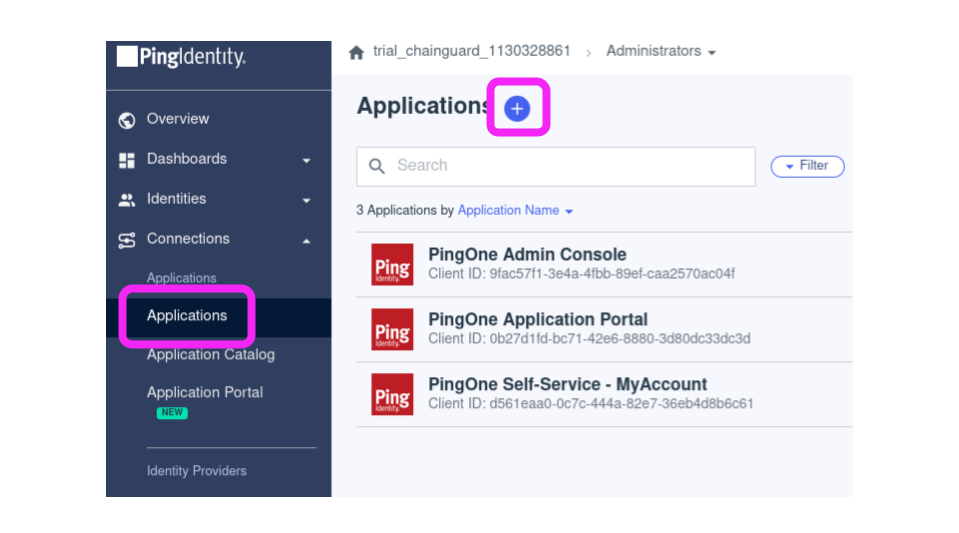
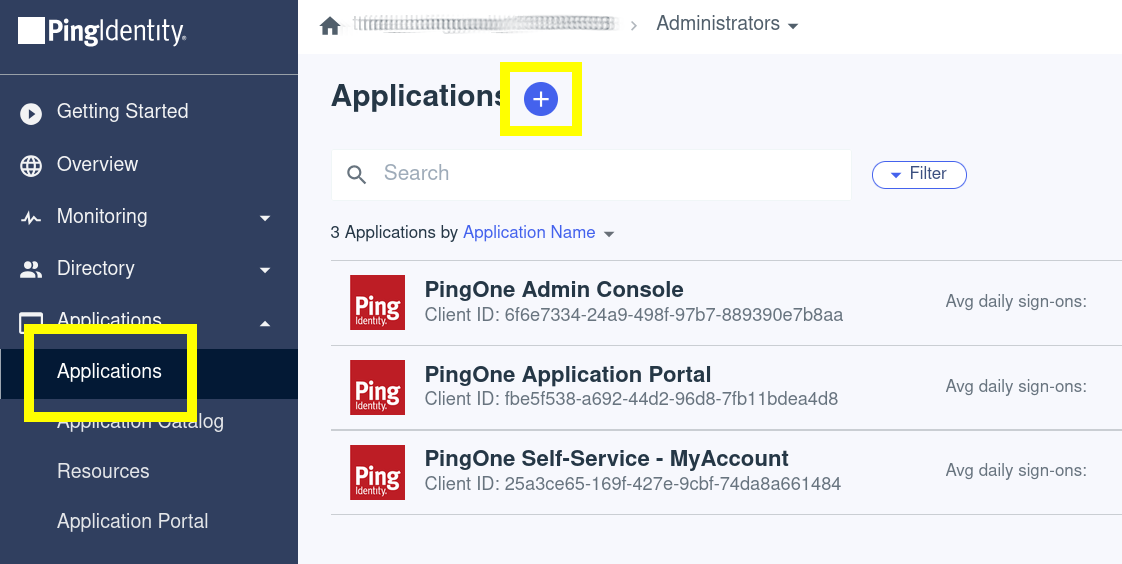
Updating Azure + Ping Custom IDP docs

diff --git a/content/chainguard/administration/custom-idps/ms-entra-id/index.md b/content/chainguard/administration/custom-idps/ms-entra-id/index.md
@@ -1,0 +1,124 @@
+---
+title : "How To Integrate Microsoft Entra ID SSO with Chainguard"
+linktitle: "Microsoft Entra ID"
+alias:
+- /chainguard/administration/custom-idps/azure-ad/
+lead: ""
+description: "Procedural tutorial on how to register a Microsoft Entra ID Application and integrate it with the Chainguard platform."
+type: "article"
+date: 2023-04-17T08:48:45+00:00
+lastmod: 2024-09-25T15:22:20+01:00
+draft: false
+tags: ["CHAINGUARD IMAGES", "PROCEDURAL"]
+images: []
+weight: 020
+---
+
+The Chainguard platform supports Single sign-on (SSO) authentication for users. By default, users can log in with GitHub, GitLab and Google, but SSO support allows users to bring their own identity provider for authentication.
+
+This guide outlines how to create a Microsoft Entra ID (formerly Azure Active Directory) application and integrate it with Chainguard. After completing this guide, you'll be able to log in to Chainguard using Entra ID and will no longer be limited to the default SSO options.
+
+
+## Prerequisites
+
+To complete this guide, you will need the following.
+
+* `chainctl` installed on your system. Follow our guide on [How To Install `chainctl`](/chainguard/administration/how-to-install-chainctl/) if you don't already have this installed.
+* An Azure account you can use to set up an Microsoft Entra ID application.
+
+
+## Create a Microsoft Entra ID Application
+
+To integrate Microsoft Entra ID with the Chainguard platform, log in to [Azure](https://azure.microsoft.com). In the left-hand navigation menu, select **Microsoft Entra ID**.
+
+![Screenshot of Azure's left-hand navigation menu, with the "Microsoft Entra ID" option highglighted in a yellow box.](meid-0.png)
+
+From the Default Directory **Overview** page, click the **➕ Add** button and select **App Registration** from the dropdown menu.
+
+![Screenshot of the Overview in the Azure console. The "Add" dropdown menu has been opened and the "App Registration" option is highlighted in a yellow box.](meid-1.png)
+
+In the **Register an application** screen, configure the application as follows.
+
+* **Name**: Set the username to "Chainguard" (or similar) to ensure users recognize this application is for authentication to the Chainguard platform.
+* **Supported account types**: Select the **Single tenant** option so that only your organization can use this application to authenticate to Chainguard.
+* **Redirect URI**: Set the platform to **Web** and the redirect URI to `https://issuer.enforce.dev/oauth/callback`.
+
+![Screenshot of the Register an application screen with the following settings selected: the Name is set to "chainguard"; Supported account types is set to the "Accounts in this organizational directory only (default Directory only - Single tenant)" option; and the Redirect URI is set to "Web" with "https://issuer.enforce.dev/oauth/callback" set as the URI.](meid-2.png)
+
+Save your configuration by clicking the **Register** button.
+
+Next, you can optionally set additional branding for the application by selecting **Branding and properties** from the **Manage** dropdown menu.
+
+Here you can set additional metadata for the application, including a Chainguard logo icon here to help your users visually identify this integration. If you'd like, you can use the icon from the [Chainguard Console](https://console.chainguard.dev/logo512.png). The console homepage is [console.chainguard.dev](https://console.chainguard.dev), and our terms of service and private statements can be found at [chainguard.dev/terms-of-service](https://www.chainguard.dev/terms-of-service) and [chainguard.dev/privacy-notice](https://www.chainguard.dev/privacy-notice), respectively.
+
+![Screenshot of the Branding & properties screen with the following settings: Name is set to "Chainguard"; Logo shows the sample Linky logo uploaded; Home page URL is set to "https://console.chainguard.dev"; Terms of service URL is set to "https://www.chainguard.dev/terms-of-service"; and the Privacy statement URL is set to "https://www.chainguard.dev/privacy-notice".](meid-3.png)
+
+Finally, navigate to the **Certificates & secrets** tab in the **Manage** dropdown to create a client secret to authenticate the Chainguard platform to Microsoft Entra ID. Select **New client secret** to add a client secret. In the resulting modal window, add a description and set an expiration date.
+
+![Screenshot showing the Certificates & secrets landing page with the Add a client secret screen opened. The "Certificates & secrets" tab is highlighted in yellow, as is the "New client secret" button.](meid-4.png)
+
+Finally, take note of the client secret “Value” that is created. You'll need this to configure the Chainguard platform to use this Microsoft Entra ID application.
+
+![Screenshot showing the "Client secrets" tab, with the Value highlighted in yellow.](meid-5.png)
+
+
+## Configuring Chainguard to use Microsoft Entra ID
+
+Now that your Microsoft Entra ID application is ready, you can create the custom identity provider.
+
+First, log in to Chainguard with `chainctl`, using an OIDC provider like Google, GitHub, or GitLab to bootstrap your account.
+
+```sh
+chainctl auth login
+```
+
+Note that this bootstrap account can be used as a [backup account](/chainguard/administration/custom-idps/custom-idps/#backup-accounts) (that is, a backup account you can use to log in if you ever lose access to your primary account). However, if you prefer to remove this role-binding after configuring the custom IDP, you may also do so.
+
+To configure Chainguard, make a note of the following details from your Microsoft Entra ID application:
+
+* **Application (client) Id**: This can be found on the **Overview** tab of the Chainguard application.
+* **Client Secret**: You noted this down when you set up the client secret in the previous step.
+* **Directory (tenant) Id**: This can also be found on the **Overview** tab of the Chainguard application.
+
+![Screenshot of a portion of the Overview page showing the "Essentials" information. The Application (client) ID and the Directory (tenant) ID are both highlighted in yellow boxes, though their values have been blurred.](meid-6.png)
+
+You will also need the UIDP for the Chainguard organization under which you want to install the identity provider.  Your selection won’t affect how your users authenticate but will have implications on who has permission to modify the SSO configuration.
+
+You can retrieve a list of all the Chainguard organizations you belong to — along with their UIDPs — with the following command.
+
+```shell
+chainctl iam organizations ls -o table
+```
+```output
+                         	ID                         	|  	  NAME    |	DESCRIPTION
+--------------------------------------------------------+-------------+---------------------
+  59156e77fb23e1e5ebcb1bd9c5edae471dd85c43              | sample_org  |
+  . . .                                                 | . . .       |
+```
+
+Note down the `ID` value for your chosen organization.
+
+With this information in hand, create a new identity provider with the following commands.
+
+```sh
+export NAME=entra-id
+export CLIENT_ID=<your application/client id here>
+export CLIENT_SECRET=<your client secret here>
+export ORG=<your organization UIDP here>
+export TENANT_ID=<your directory/tenant id here>
+export ISSUER="https://login.microsoftonline.com/${TENANT_ID}/v2.0"
+chainctl iam identity-provider create \
+  --configuration-type=OIDC \
+  --oidc-client-id=${CLIENT_ID} \
+  --oidc-client-secret=${CLIENT_SECRET} \
+  --oidc-issuer=${ISSUER} \
+  --oidc-additional-scopes=email \
+  --oidc-additional-scopes=profile \
+  --parent=${ORG} \
+  --default-role=viewer \
+  --name=${NAME}
+```
+
+Note the `--default-role` option. This defines the default role granted to users registering with this identity provider. This example specifies the `viewer` role, but depending on your needs you might choose `editor` or `owner`. If you don't include this option, you'll be prompted to specify the role interactively. For more information, refer to the [IAM and Security section](/chainguard/administration/custom-idps/custom-idps/#iam-and-security) of our Introduction to Custom Identity Providers in Chainguard tutorial.
+
+You can refer to our [Generic Integration Guide](/chainguard/administration/custom-idps/custom-idps/#generic-integration-guide) in our Introduction to Custom Identity Providers doc for more information about the `chainctl iam identity-provider create` command and its required options.

diff --git a/content/chainguard/administration/custom-idps/ping-id/index.md b/content/chainguard/administration/custom-idps/ping-id/index.md
@@ -5,7 +5,7 @@ lead: ""
 description: "Procedural tutorial on how to create a Ping Identity Application"
 type: "article"
 date: 2023-04-17T08:48:45+00:00
-lastmod: 2024-06-26T15:22:20+01:00
+lastmod: 2024-09-25T15:22:20+01:00
 draft: false
 tags: ["Chainguard Images", "Procedural"]
 images: []
@@ -27,29 +27,29 @@ To complete this guide, you will need the following.
 
 ## Create a Ping Identity Application
 
-To integrate the Ping identity provider with the Chainguard platform, [sign on to Ping Identity](https://www.pingidentity.com/en.html) and navigate to the Dashboard. Click on the **Connections** tab in the left hand sidebar menu, and then click on **Applications** in the resulting dropdown menu. From the Applications landing page, click the plus sign (**➕**) to set up a new application.
+To integrate the Ping identity provider with the Chainguard platform, [sign on to Ping Identity](https://www.pingidentity.com/en.html) and navigate to the Dashboard. Click on the **Applications** tab in the left-hand sidebar menu, and then click on **Applications** in the resulting dropdown menu. From the Applications landing page, click the plus sign (**➕**) to set up a new application.
 
-![Screenshot of the Ping Identity Dashboard, showing the applications landing page. The Applications tab in the left hand sidebar and the "add application" plus sign icon are circled in magenta.](ping-1.png)
+![Screenshot of the Ping Identity Dashboard, showing the applications landing page. The Applications tab in the left hand sidebar and the "add application" plus sign icon are highlighted in yellow.](ping-1.png)
 
 Configure the application as follows:
 
-* **Application Name**: Set a name and option description (such as "Chainguard") to ensure users recognize this application is for authentication to the Chainguard platform.
+* **Application Name**: Set a descriptive name (such as "Chainguard") and optional description to ensure users recognize this application is for authentication to the Chainguard platform.
 * **Icon**: You can optionally add a Chainguard logo icon here to help your users visually identify this integration. If you'd like, you can use the icon from the [Chainguard Console](https://console.chainguard.dev/logo512.png).
 * **Application Type**: Select **OIDC Web App**.
 
-![Screenshot showing the Add Application modal window with the following settings in place: Application Name is set to "Chainguard"; Description reads "Build it right, Build it safe, Build it fast, https://console.chainguard.dev"; the example Linky icon has been uploaded to the Icon field; and the Application Type is set to "OIDC Web App."](ping-2-add-app.png)
+![Screenshot showing the Add Application modal window with the following settings in place: Application Name is set to "Chainguard"; Description reads "Safe Source for Open Source, https://console.chainguard.dev"; the example Linky icon has been uploaded to the Icon field; and the Application Type is set to "OIDC Web App."](ping-2.png)
 
 After setting these details, click the **Save** button.
 
 Next, configure scopes for the application. In the **Overview** tab, click the **Resource Access** scope button.
 
-![Screenshot of the Overview tab, with the Resource Access scope button highlighted in a magenta circle.](ping-3.png)
+![Screenshot of the Overview tab, with the Resource Access scope button highlighted in a yellow box.](ping-3.png)
 
 Add **email** and **profile** scopes, then save.
 
 ![Screenshot of the Edit Resources modal window, showing the email and profile scopes selected.](ping-4.png)
 
-Next, configure the OIDC application. Navigate to the **Configuration** tab and click the "edit" icon.
+Next, configure the OIDC application. Navigate to the **Configuration** tab and click the pencil-shaped "edit" icon.
 
 To configure the application, add the following settings.
 
@@ -60,13 +60,13 @@ To configure the application, add the following settings.
 
 * **Redirect URIs**: Set the Redirect URI to [`https://issuer.enforce.dev/oauth/callback`](https://issuer.enforce.dev/oauth/callback).
 
-![Screenshot of the Edit Configuration modal window with the following settings: Resource type is set to "Code"; Grant type is set to "Authorization Code" (with PKCE enforcement set to "Optional"); Redirect URIs has one option set (https://issuer.enforce.dev/oauth/callback).](ping-7-edit-conf.png)
+![Screenshot of the Edit Configuration modal window with the following settings: Resource type is set to "Code"; Grant type is set to "Authorization Code" (with PKCE enforcement set to "Optional"); Redirect URIs has one option set (https://issuer.enforce.dev/oauth/callback).](ping-5.png)
 
 Click the **Save** button to save your configuration.
 
-Finally, enable the Chainguard application by toggling the knob in the top right corner.
+Finally, enable the Chainguard application by toggling the button in the top right corner.
 
-![Screenshot of the Overview tab, with the toggle button turned on. Additionally, the toggle button is highlighted with a magenta circle.](ping-8-2.png)
+![Screenshot of the Overview tab, with the toggle button turned on. The toggle button is highlighted with a yellow box.](ping-6.png)
 
 This completes configuration of the Ping application. You're now ready to configure the Chainguard platform to use it.
 
@@ -126,6 +126,5 @@ chainctl iam identity-provider create \
 ```
 
 Note the `--default-role` option. This defines the default role granted to users registering with this identity provider. This example specifies the `viewer` role, but depending on your needs you might choose `editor` or `owner`. If you don't include this option, you'll be prompted to specify the role interactively. For more information, refer to the [IAM and Security section](/chainguard/administration/custom-idps/custom-idps/#iam-and-security) of our Introduction to Custom Identity Providers in Chainguard tutorial.
-
 
 You can refer to our [Generic Integration Guide](/chainguard/administration/custom-idps/custom-idps/#generic-integration-guide) in our Introduction to Custom Identity Providers guide for more information about the `chainctl iam identity-provider create` command and its required options.
